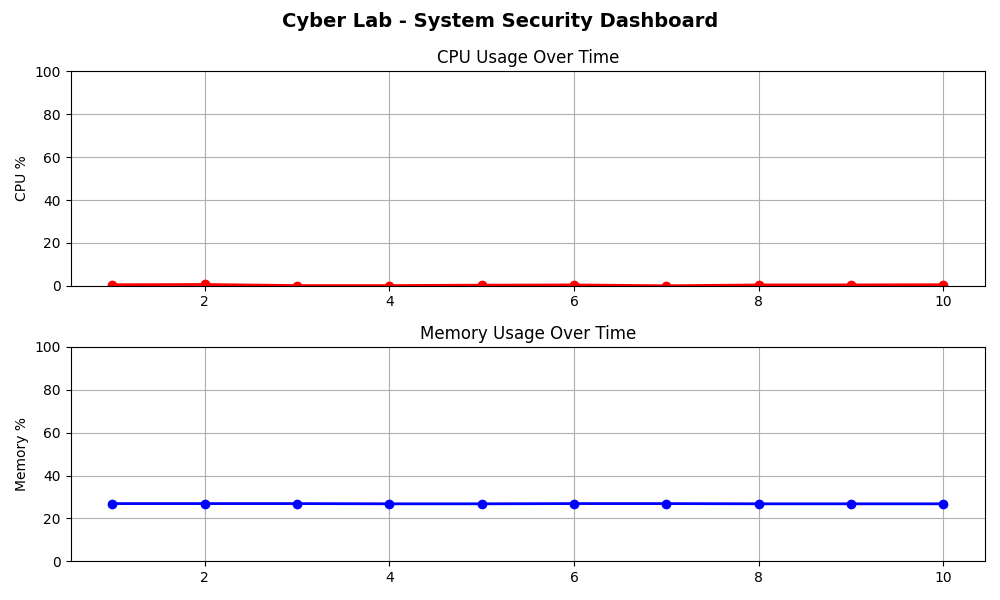
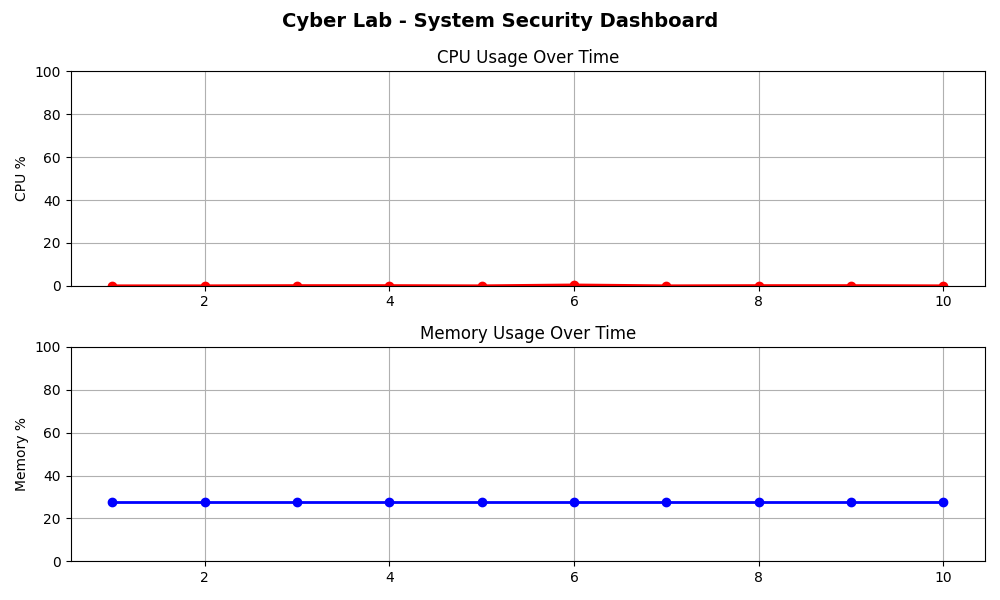
Clean up README completely

diff --git a/README.md b/README.md
@@ -5,51 +5,24 @@ This project combines cybersecurity, cloud computing, data engineering, Linux,
 and AI concepts to monitor system activity, detect suspicious behavior,
 and generate automated security reports.
 
----
-
 ## 🛠 Tools & Technologies
 - Python 3.12
 - psutil (system & network monitoring)
+- Flask (web dashboard)
 - Linux (Ubuntu 24)
 - Git & GitHub
 
----
-
 ## 📁 Project Structure
-
-cyber-security-lab/
-│
-├── scripts/
-│   ├── system_monitor.py
-│   ├── network_monitor.py
-│   └── security_report.py
-│
-├── logs/
-│   └── security_report_*.txt
-│
-└── README.md
-
----
+- scripts/ - All monitoring scripts
+- logs/ - Auto-generated security reports
+- dashboards/ - Charts and screenshots
+- data/ - Baseline and processed data
+- ai_models/ - AI detection models
 
 ## 🚀 How to Run
-
 ```bash
-# Clone the repo
 git clone https://github.com/Samvee254/cyber-security-lab.git
 cd cyber-security-lab
-
-# Install dependencies
-pip3 install psutil --break-system-packages
-
-# Run full security report
+pip3 install psutil flask --break-system-packages
 python3 scripts/security_report.py
-
-'''## Dashboard Preview
-
-![Security Dashboard] (dashboards/dashboard_screenshot.png)
-
-
-
-## 📸 Dashboard Preview
-
-![Security Dashboard](dashboards/dashboard_screenshot.png)
+python3 scripts/dashboard.py
